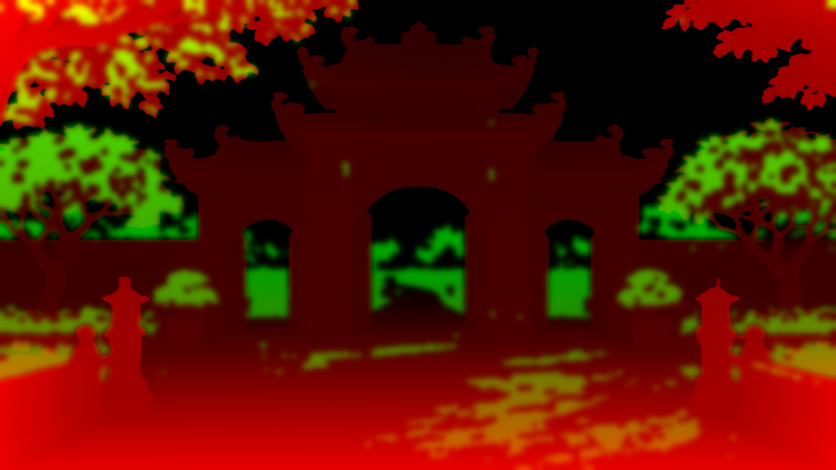
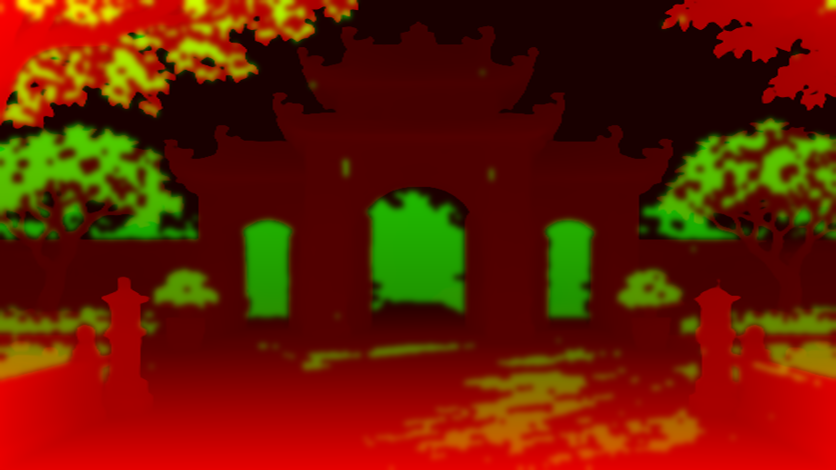
Sửa 10 yêu cầu: lư hương vẽ, khói động, lùm tre sau cổng, cổng giữa, người xa to hơn, trò chuyện, nạp xu (#9)
- Dùng lại ảnh tham chiếu gốc; lư hương vẽ tách lớp để che người đi sau, bỏ lư/chuông/trống 3D
- Xoá khói vẽ tĩnh, khói hương động bay theo gió từ đầu nén hương
- Sau cổng tam quan là lùm tre (thay đồng lúa); cổng nằm giữa, thẳng hướng điện (cửa điện và chánh điện)
- Làm sạch viền sprite Phật tử; ngoài sân người ở xa không còn bé quá
- Khung trò chuyện theo phòng bên phải; nạp xu theo 4 gói; điểm nhìn Mặt trước chùa

Claude-Session: https://claude.ai/code/session_0165dYwuGLCeQUJKj4YibH94

diff --git a/chua.js b/chua.js
@@ -35,31 +35,32 @@
       block: [[180, 730, 290, 812]],                                         // chỗ thầy ngồi
       exits: [[[790, 540, 900, 563], 'cua', [836, 900], 'up'], [[0, 690, 14, 900], 'cua-hong', [836, 900], 'up'], [[1658, 690, 1672, 900], 'lau-trong', [836, 900], 'up']],
       urn: { stand: [845, 806], face: 'down', plant: [843, 800], len: 58 } },
-    'cua': { urn3d: { bb: [755, 423, 917, 606], elev: 12 }, name: 'Cửa Chánh điện', img: 'assets/ngoai/cua.jpg', hz: 470, k: .6,
+    'cua': { lu: { src: 'assets/ngoai/lu-cua.png', at: [755, 423, 164, 184] }, name: 'Cửa Chánh điện', img: 'assets/ngoai/cua.jpg', hz: 470, k: .6,
       floor: [[222, 941], [1450, 941], [1450, 742], [1085, 522], [600, 522], [222, 742]],
       block: [[238, 560, 425, 835], [1245, 560, 1440, 835], [762, 566, 910, 616]],
       exits: [[[560, 500, 1110, 532], 'san', [836, 905], 'up'], [[222, 932, 1450, 941], 'hall', [845, 575], 'down']],
       urn: { stand: [836, 640], face: 'up', plant: [836, 462], len: 26 } },
-    'cua-hong': { urn3d: { bb: [754, 422, 918, 606], elev: 12 }, name: 'Thềm Chánh điện', img: 'assets/ngoai/cua-hong.jpg', hz: 470, k: .6,
+    'cua-hong': { lu: { src: 'assets/ngoai/lu-cua.png', at: [755, 423, 164, 184] }, name: 'Thềm Chánh điện', img: 'assets/ngoai/cua-hong.jpg', hz: 470, k: .6,
       floor: [[222, 941], [1450, 941], [1450, 742], [1085, 522], [600, 522], [222, 742]],
       block: [[238, 560, 425, 835], [1245, 560, 1440, 835], [762, 566, 910, 616]],
       exits: [[[560, 500, 1110, 532], 'san', [836, 905], 'up'], [[222, 932, 1450, 941], 'hall', [60, 790], 'right']],
       urn: { stand: [836, 640], face: 'up', plant: [836, 462], len: 26 } },
-    'san': { urn3d: { bb: [682, 511, 988, 847], elev: 8 }, name: 'Sân chùa', img: 'assets/ngoai/san.jpg', hz: 470, k: .6,
+    'san': { lu: { src: 'assets/ngoai/lu-san.png', at: [682, 512, 307, 337] }, name: 'Sân chùa', img: 'assets/ngoai/san.jpg', hz: 470, k: .6,
       floor: [[0, 941], [1672, 941], [1672, 822], [1112, 560], [1042, 500], [628, 500], [558, 560], [0, 822]],
       block: [[702, 782, 968, 852]],
       exits: [[[600, 490, 1070, 510], 'san-gan', [560, 905], 'up'], [[0, 924, 1672, 941], 'mat-tien', [836, 905], 'up'],
               [[0, 800, 12, 941], 'bo-de', [1590, 880], 'left'], [[1660, 800, 1672, 941], 'quan-am', [90, 880], 'right']],
       urn: { stand: [836, 905], face: 'up', plant: [836, 588], len: 50 } },
-    'san-gan': { urn3d: { bb: [677, 584, 1071, 940], elev: 6 }, name: 'Sân trước Tam Quan', img: 'assets/ngoai/san-gan.jpg', hz: 470, k: .6,
+    'san-gan': { lu: { src: 'assets/ngoai/lu-san-gan.png', at: [677, 584, 395, 357] }, name: 'Sân trước Tam Quan', img: 'assets/ngoai/san-gan.jpg', hz: 470, k: .6,
       floor: [[0, 941], [1672, 941], [1672, 782], [1122, 560], [1000, 528], [700, 528], [560, 560], [0, 782]],
       block: [[692, 862, 1058, 941]],
       exits: [[[680, 515, 1020, 538], 'tam-quan', [836, 905], 'up'], [[0, 930, 650, 941], 'mat-tien', [836, 905], 'up'], [[1090, 930, 1672, 941], 'mat-tien', [836, 905], 'up'],
-              [[0, 760, 12, 941], 'bo-de', [1590, 880], 'left'], [[1660, 760, 1672, 941], 'quan-am', [90, 880], 'right']] },
+              [[0, 760, 12, 941], 'bo-de', [1590, 880], 'left'], [[1660, 760, 1672, 941], 'quan-am', [90, 880], 'right']],
+      urn: { stand: [874, 905], face: 'up', plant: [874, 676], len: 62 } },
     'tam-quan': { name: 'Cổng Tam Quan', img: 'assets/ngoai/tam-quan.jpg', hz: 520, k: .62,
       floor: [[300, 941], [1380, 941], [1380, 702], [1230, 672], [440, 672], [300, 702]],
       exits: [[[300, 930, 1380, 941], 'mat-tien', [836, 905], 'up'], [[720, 660, 960, 680], 'soon:Đường làng', null]] },
-    'mat-tien': { urn3d: { bb: [699, 518, 970, 829], elev: 8 }, name: 'Mặt tiền Chánh điện', img: 'assets/ngoai/mat-tien.jpg', hz: 480, k: .6,
+    'mat-tien': { lu: { src: 'assets/ngoai/lu-mat-tien.png', at: [699, 529, 272, 301] }, name: 'Mặt tiền Chánh điện', img: 'assets/ngoai/mat-tien.jpg', hz: 480, k: .6,
       floor: [[332, 941], [1338, 941], [1338, 642], [1098, 626], [1090, 522], [580, 522], [572, 626], [332, 642]],
       block: [[716, 766, 954, 836]],
       exits: [[[640, 505, 1030, 530], 'hall', [845, 575], 'down'], [[332, 930, 1338, 941], 'san', [836, 905], 'up'],
@@ -72,11 +73,11 @@
       floor: [[0, 941], [1672, 941], [1672, 746], [1012, 746], [982, 602], [748, 602], [720, 746], [0, 746]],
       exits: [[[748, 596, 982, 612], 'lau-trong', [836, 905], 'up'], [[0, 930, 1672, 941], 'san', [836, 905], 'up'], [[0, 746, 12, 941], 'san', [1590, 880], 'left']],
       act: [[750, 600, 990, 640], 'quanam'] },
-    'lau-chuong': { urn3d: { kind: 'bell', bb: [737, 415, 927, 679], elev: -4 }, name: 'Lầu Chuông', img: 'assets/ngoai/lau-chuong.jpg', hz: 560, k: .66,
+    'lau-chuong': { tap: [[737, 415, 927, 679], 'chuong'], name: 'Lầu Chuông', img: 'assets/ngoai/lau-chuong.jpg', hz: 560, k: .66,
       floor: [[0, 941], [1672, 941], [1672, 802], [1052, 802], [1042, 722], [648, 722], [640, 802], [0, 802]],
       exits: [[[0, 802, 12, 941], 'bo-de', [1590, 880], 'left'], [[1660, 802, 1672, 941], 'hanh-lang', [500, 905], 'up'], [[0, 930, 1672, 941], 'mat-tien', [836, 905], 'up']],
       act: [[648, 718, 1042, 740], 'chuong'] },
-    'lau-trong': { urn3d: { kind: 'drum', bb: [760, 361, 935, 519], elev: 3 }, name: 'Lầu Trống', img: 'assets/ngoai/lau-trong.jpg', hz: 480, k: .6,
+    'lau-trong': { tap: [[760, 361, 935, 519], 'trong'], name: 'Lầu Trống', img: 'assets/ngoai/lau-trong.jpg', hz: 480, k: .6,
       floor: [[222, 941], [1450, 941], [1450, 846], [1322, 752], [1322, 652], [362, 652], [362, 752], [222, 846]],
       exits: [[[222, 930, 1450, 941], 'hall', [1610, 790], 'left']],
       act: [[700, 648, 990, 670], 'trong'] },
@@ -150,7 +151,7 @@
     load('assets/song/nu.png').then(i => SHEETS.nu.img = i), load('assets/song/nam.png').then(i => SHEETS.nam.img = i),
     load('assets/song/monk.png').then(i => monk = i), load(ROOMS.hall.img).then(i => imgs.hall = i), load(ROOMS.hall.fg).then(i => imgs.hallFg = i)
   ]).then(() => { ready = true; document.documentElement.classList.add('song-ready'); syncVirtual();
-    Object.keys(ROOMS).forEach(k => k !== 'hall' && load(ROOMS[k].img).then(i => imgs[k] = i)); });
+    Object.keys(ROOMS).forEach(k => { if (k !== 'hall') load(ROOMS[k].img).then(i => imgs[k] = i); if (ROOMS[k].lu) load(ROOMS[k].lu.src).then(i => imgs['lu-' + k] = i); }); });
   Object.keys(ROOMS).forEach(loadDepth);
 
   /* ---------- Vẽ ---------- */
@@ -205,7 +206,12 @@
 
   let room = 'hall';
   const R = () => ROOMS[room];
-  const hAt = (y, rm = R()) => Math.max(26, rm.k * (y - rm.hz));
+  // Ngoài sân: giảm bớt độ thu nhỏ theo xa gần để người ở xa không bé quá (gần như cũ ở sát màn hình)
+  const hWalk = (y, rm = R()) => Math.max(26, rm.k * (y - rm.hz));          // tốc độ đi theo phối cảnh thật
+  const hAt = (y, rm = R()) => {
+    const d = Math.max(4, y - rm.hz); if (rm === ROOMS.hall) return Math.max(26, rm.k * d);
+    const d0 = 900 - rm.hz; return Math.max(40, rm.k * d0 * Math.pow(d / d0, .55));
+  };
   function drawCushion(x, y, h) {
     const rx = .36 * h, ry = .095 * h;
     ctx.save(); ctx.translate(x, y - ry * .55);
@@ -233,22 +239,52 @@
   }
   // Gió: mạnh yếu từng đợt (dùng chung cho lá cây trong nền và khói hương)
   window.GIO = t => .65 + .35 * Math.sin(t * .37) + .15 * Math.sin(t * 1.13);
+  /* Khói hương động: bốc lên từ đầu các nén hương đang cháy trong lư, gió thổi nghiêng (thay khói vẽ tĩnh) */
+  const puffs = [];
+  let puffRoom = null;
+  function smoke(rm, t, dt) {
+    if (puffRoom !== rm) { puffs.length = 0; puffRoom = rm; }
+    const R0 = ROOMS[rm], src = [];
+    if (R0.lu) { const [x, y, w, h] = R0.lu.at; src.push([x + w / 2, y + h * .05, w * .13, h / 300]); }
+    sticks.forEach(s => { if (s.room === rm) src.push([s.x, s.y - s.len, 3, s.len / 60]); });
+    if (!src.length) return;
+    const rate = 14 + Math.min(20, src.length);
+    for (let n = Math.random() < (rate * dt) % 1 ? 1 : 0, k = Math.floor(rate * dt) + n; k > 0; k--) {
+      const s = src[Math.random() * src.length | 0];
+      puffs.push({ x: s[0] + (Math.random() - .5) * 2 * s[2], y: s[1], sc: s[3], t0: t, ph: Math.random() * 6, life: 4 + Math.random() * 2.5 });
+    }
+    const wind = rm === 'hall' ? 0 : GIO(t);
+    ctx.save(); ctx.globalCompositeOperation = 'screen';
+    for (let i = puffs.length - 1; i >= 0; i--) {
+      const f = puffs[i], age = t - f.t0; if (age > f.life) { puffs.splice(i, 1); continue; }
+      const k = age / f.life, sc = f.sc;
+      const x = f.x + Math.sin(age * 1.4 + f.ph) * 6 * sc * k + wind * 34 * sc * age * age * .5,
+            y = f.y - (26 + age * 6) * sc * age,
+            r = (6 + age * 11) * sc,
+            a = Math.min(1, age * 2.5) * (1 - k) * .55;
+      const [dx, dy] = shiftAt(f.x, f.y + 60);
+      const g = ctx.createRadialGradient(x + dx, y + dy, 0, x + dx, y + dy, r);
+      g.addColorStop(0, `rgba(235,232,228,${a})`); g.addColorStop(1, 'rgba(235,232,228,0)');
+      ctx.fillStyle = g; ctx.beginPath(); ctx.arc(x + dx, y + dy, r, 0, 7); ctx.fill();
+    }
+    ctx.restore();
+  }
   // Hương: que đỏ, đầu đỏ lửa, khói mỏng
   const sticks = [], flying = [];
-  function stick(x, y, len, t, a = 1) {
+  function stick(x, y, len, t, a = 1, puff = false) {
     ctx.strokeStyle = `rgba(178,34,40,${a})`; ctx.lineWidth = Math.max(1.4, len * .045); ctx.lineCap = 'round';
     ctx.beginPath(); ctx.moveTo(x, y); ctx.lineTo(x, y - len); ctx.stroke();
     const r = Math.max(2, len * .07), g = ctx.createRadialGradient(x, y - len, 0, x, y - len, r * 2.6);
     g.addColorStop(0, `rgba(255,236,170,${a})`); g.addColorStop(.35, `rgba(255,120,40,${.9 * a})`); g.addColorStop(1, 'rgba(255,90,30,0)');
     ctx.fillStyle = g; ctx.beginPath(); ctx.arc(x, y - len, r * 2.6, 0, 7); ctx.fill();
-    for (let i = 0; i < 4; i++) {                                           // khói
+    if (puff) for (let i = 0; i < 4; i++) {                                 // khói (hương cầm tay)
       const k = ((t * .35 + i * .25) % 1), sy = y - len - k * len * 1.6, sx = x + Math.sin(t * 1.3 + i * 2 + x) * len * .12 * k + (room === 'hall' ? 0 : GIO(t) * k * k * len * .9);
       ctx.fillStyle = `rgba(235,235,235,${.16 * (1 - k) * a})`; ctx.beginPath(); ctx.arc(sx, sy, len * (.05 + k * .12), 0, 7); ctx.fill();
     }
   }
   function drawHeldSticks(p, h) {
     const t = performance.now() / 1000, len = h * .2, hy = p.fy - h * (p.dir === 'up' && p.frame < 16 ? .56 : .5);
-    for (const dx of [-.025, 0, .025]) stick(p.fx + dx * h, hy, len, t);
+    for (const dx of [-.025, 0, .025]) stick(p.fx + dx * h, hy, len, t, 1, true);
   }
 
   /* ---------- Chuyển động ---------- */
@@ -263,7 +299,7 @@
   function stepWalker(p, dt) {
     if (p.mode !== 'walk' || !p.target) return;
     const [tx, ty] = p.target, dx = tx - p.fx, dy = ty - p.fy, d = Math.hypot(dx, dy);
-    const v = .78 * hAt(p.fy, ROOMS[p.room]) * dt;
+    const v = .78 * hWalk(p.fy, ROOMS[p.room]) * dt;
     p.dir = dirOf(dx, dy); p.walkT += dt;
     if (d <= v) { p.fx = tx; p.fy = ty; p.target = null; p.mode = 'pose'; p.frame = F.stand; const a = p.arrive; p.arrive = null; a && a(); }
     else { p.fx += dx / d * v; p.fy += dy / d * v; }
@@ -308,8 +344,7 @@
     flying.push({ room: p.room, from, to, len: u.len, t0: performance.now() });
     if (u.face !== 'up') p.frame = F.standBow;
     await sleep(650); p.frame = u.face === 'up' ? F.up : F.stand;
-    if (ROOMS[p.room].urn3d && window.Urn3D && Urn3D.ok()) Urn3D.plant(3);
-    else for (const dx of [-.12, 0, .12]) sticks.push({ room: p.room, x: to[0] + dx * u.len, y: to[1] + Math.abs(dx) * 4, len: u.len * rnd(.9, 1.05), t0: performance.now() });
+    for (const dx of [-.12, 0, .12]) sticks.push({ room: p.room, x: to[0] + dx * u.len, y: to[1] + Math.abs(dx) * 4, len: u.len * rnd(.9, 1.05), t0: performance.now() });
     while (sticks.length > 60) sticks.shift();
     dispatchEvent(new CustomEvent('chua-huong', { detail: { me: !!p.me } }));
     await sleep(500);
@@ -367,7 +402,7 @@
       if (me.mode === 'seat') { meBusy = true; if (me.seat) { me.seat.owner = null; } await standUp(me); me.mode = 'pose'; meBusy = false; return; }
       if (me.target) return;
       me.mode = 'walk';
-      const h = hAt(me.fy), v = .9 * h * Math.min(1, mag) * dt;
+      const h = hWalk(me.fy), v = .9 * h * Math.min(1, mag) * dt;
       const nx = me.fx + input.x / mag * v, ny = me.fy + input.y / mag * v * .8;
       // ra khỏi cảnh?
       for (const [r, to, at, face] of R().exits) {
@@ -459,9 +494,10 @@
         SEATS.forEach(s => items.push({ y: s.y - .5, draw: at(s.x, s.y, () => drawCushion(s.x, s.y, hallH(s.y))) }));
         if (monk) items.push({ y: 802, draw: at(235, 802, () => { const b = 1 + Math.sin(t * 1.2) * .006; ctx.drawImage(monk, 198, 693 + 106 * (1 - b), 75, 106 * b); }) });
       }
-      const u3 = R().urn3d;
-      if (u3 && window.Urn3D && Urn3D.ok()) items.push({ y: u3.bb[3], draw: at((u3.bb[0] + u3.bb[2]) / 2, u3.bb[3] - 4, () => Urn3D.draw(ctx, u3, t)) });
+      const lu = R().lu;                                                  // lư hương vẽ: tách lớp để người đi sau lư bị lư che
+      if (lu && imgs['lu-' + room]) { const [x, y, w, h] = lu.at; items.push({ y: y + h - 6, draw: at(x + w / 2, y + h - 6, () => ctx.drawImage(imgs['lu-' + room], x, y, w, h)) }); }
       items.sort((a, b) => a.y - b.y).forEach(i => i.draw());
+      smoke(room, t, dt);
       if (room === 'hall' && imgs.hallFg) { const [dx, dy] = shiftAt(843, 870); ctx.drawImage(imgs.hallFg, dx, ROOMS.hall.fgY + dy); }
       sticks.forEach(s => { if (s.room !== room) return; const age = (now - s.t0) / 1000, a = age > 80 ? Math.max(0, 1 - (age - 80) / 10) : 1; if (a > 0) { const [dx, dy] = shiftAt(s.x, s.y + 40); stick(s.x + dx, s.y + dy, s.len * (1 - Math.min(.5, age / 200)), t, a); } });
       for (let i = flying.length - 1; i >= 0; i--) {
@@ -478,19 +514,12 @@
   }
   requestAnimationFrame(frame);
 
+  const toStage = e => { const r = cv.getBoundingClientRect(); return [(e.clientX - r.left) * W / r.width, (e.clientY - r.top) * H / r.height]; };
   cv.addEventListener('click', e => {
-    const u3 = R().urn3d; if (!u3 || !window.Urn3D) return;
-    const r = cv.getBoundingClientRect(), x = (e.clientX - r.left) * W / r.width, y = (e.clientY - r.top) * H / r.height;
-    if (!inRect(x, y, u3.bb)) return;
-    if (u3.kind === 'bell') dispatchEvent(new CustomEvent('chua-act', { detail: 'chuong' }));
-    else if (u3.kind === 'drum') dispatchEvent(new CustomEvent('chua-act', { detail: 'trong' }));
-    else Urn3D.open();
+    const tp = R().tap; if (!tp) return;
+    const [x, y] = toStage(e); if (inRect(x, y, tp[0])) dispatchEvent(new CustomEvent('chua-act', { detail: tp[1] }));
   });
-  cv.addEventListener('mousemove', e => {
-    const u3 = R().urn3d; if (!u3) { cv.style.cursor = ''; return; }
-    const r = cv.getBoundingClientRect(), x = (e.clientX - r.left) * W / r.width, y = (e.clientY - r.top) * H / r.height;
-    cv.style.cursor = inRect(x, y, u3.bb) ? 'pointer' : '';
-  });
+  cv.addEventListener('mousemove', e => { const tp = R().tap; if (!tp) { cv.style.cursor = ''; return; } const [x, y] = toStage(e); cv.style.cursor = inRect(x, y, tp[0]) ? 'pointer' : ''; });
 
   /* ---------- Giao tiếp với app.js ---------- */
   const hallNpcs = () => people.filter(p => !p.me && p.room === 'hall');

diff --git a/app.js b/app.js
@@ -11,7 +11,7 @@
     set(k, v) { try { localStorage.setItem('lhtv:' + k, JSON.stringify(v)); } catch {} }
   };
   const state = {
-    wallet: store.get('wallet', 1250000),
+    xu: store.get('xu', 0),
     merit: store.get('merit', 0),
     beads: store.get('beads', 0),
     hall: store.get('hall', 1),
@@ -21,7 +21,7 @@
     log: store.get('log', []),
     outside: false
   };
-  const save = () => ['wallet', 'merit', 'beads', 'hall', 'volume', 'muted', 'ambient', 'log'].forEach(k => store.set(k, state[k]));
+  const save = () => ['xu', 'merit', 'beads', 'hall', 'volume', 'muted', 'ambient', 'log'].forEach(k => store.set(k, state[k]));
   const fmt = n => n.toLocaleString('vi-VN');
 
   /* ---------- Co giãn sân khấu ---------- */
@@ -53,10 +53,51 @@
     $$('#views [data-view]').forEach(b => b.classList.toggle('on', b.dataset.view === name));
   }
   $$('#views [data-view]').forEach(b => b.addEventListener('click', () => {
+    if (b.dataset.view === 'mattien') {                 // toàn cảnh mặt trước chánh điện
+      window.Nguoi && Nguoi.go('mat-tien', [836, 905], 'up'); chime(660, .15);
+      $$('#views [data-view]').forEach(x => x.classList.toggle('on', x === b)); return;
+    }
     if (state.outside) goInside();
     setView(b.dataset.view); chime(660, .15);
   }));
   $('#views-toggle').addEventListener('click', () => $('#views').classList.toggle('closed'));
+
+  /* ---------- Trò chuyện trong cùng phòng ----------
+     Tin nhắn theo phòng (chánh điện số mấy + đang đứng ở cảnh nào). Hiện chưa có máy chủ:
+     tin được lưu trên máy và chuyển giữa các tab cùng trình duyệt; đạo hữu ảo thỉnh thoảng chào hỏi. */
+  const chat = { room: 'hall', bc: null, timer: 0 };
+  try { chat.bc = new BroadcastChannel('lhtv-chat'); } catch {}
+  const chatKey = () => `chat:${state.hall}:${chat.room}`;
+  const esc = t => String(t).replace(/[&<>"']/g, c => ({ '&': '&amp;', '<': '&lt;', '>': '&gt;', '"': '&quot;', "'": '&#39;' }[c]));
+  function chatPaint() {
+    const list = store.get(chatKey(), []), log = $('#chat-log');
+    log.innerHTML = list.length ? list.map(m => `<div class="m ${m.me ? 'me' : ''} ${m.sys ? 'sys' : ''}">${m.sys ? '' : `<b>${esc(m.who)}</b>`}${esc(m.text)}</div>`).join('')
+      : '<div class="m sys">Chưa có tin nhắn. Hãy chào đại chúng 🙏</div>';
+    log.scrollTop = log.scrollHeight;
+  }
+  function chatAdd(m, broadcast = true) {
+    const k = m.key || chatKey(); const list = store.get(k, []); list.push({ who: m.who, text: m.text, me: m.me, sys: m.sys, t: Date.now() });
+    store.set(k, list.slice(-60)); if (k === chatKey()) chatPaint();
+    if (broadcast && chat.bc) chat.bc.postMessage({ key: k, who: m.who, text: m.text });
+  }
+  if (chat.bc) chat.bc.onmessage = e => chatAdd({ ...e.data, me: false }, false);
+  const BOT = ['Minh Tâm', 'Quang Huy', 'Liên Hoa', 'An Nhiên', 'Từ Hạnh', 'Nhật Minh', 'Diệu Âm', 'Thiện Tâm'];
+  const BOT_SAY = ['A Di Đà Phật 🙏', 'Chúc đạo hữu một ngày an lạc', 'Hôm nay chùa thanh tịnh quá', 'Nam Mô Bổn Sư Thích Ca Mâu Ni Phật',
+    'Mọi người cùng niệm Phật nhé', 'Hương trầm thơm quá', 'Tùy hỷ công đức đạo hữu 🙏', 'Nguyện cho tất cả chúng sinh được bình an'];
+  const pick = a => a[Math.random() * a.length | 0];
+  function botTalk(reply) {
+    if (!window.Nguoi || Nguoi.count() < 2) return;
+    chatAdd({ who: pick(BOT), text: reply ? pick(['A Di Đà Phật 🙏', 'Chào đạo hữu 🙏', 'Tùy hỷ, tùy hỷ', 'Cảm ơn đạo hữu, chúc an lạc']) : pick(BOT_SAY), me: false }, false);
+  }
+  (function ambient() { chat.timer = setTimeout(() => { if (Math.random() < .6) botTalk(false); ambient(); }, 35000 + Math.random() * 50000); })();
+  $('#chat-form').addEventListener('submit', e => {
+    e.preventDefault(); const inp = $('#chat-in'), text = inp.value.trim(); if (!text) return;
+    chatAdd({ who: 'Bạn', text, me: true }); inp.value = ''; inp.blur();
+    if (Math.random() < .7) setTimeout(() => botTalk(true), 2500 + Math.random() * 4000);
+  });
+  $('#chat-toggle').addEventListener('click', () => $('#chat').classList.toggle('closed'));
+  function chatRoom(room, name) { chat.room = room; $('#chat-room').textContent = name; chatPaint(); }
+  chatRoom('hall', 'Chánh điện ' + state.hall);
 
   /* ---------- Joystick + bàn phím ---------- */
   const joy = $('#joy'), knob = $('#knob');
@@ -198,7 +239,7 @@
   function logIt(text, merit = 0) {
     state.log.unshift({ t: Date.now(), text, merit }); state.log = state.log.slice(0, 60); save();
   }
-  const paintWallet = () => { $('#wallet').textContent = fmt(state.wallet); };
+  const paintWallet = () => { $('#wallet').textContent = fmt(state.xu); };
   paintWallet();
 
   /* ---------- Hành động ---------- */
@@ -268,6 +309,7 @@
     if (state.outside) { Object.assign(cam, VIEWS.all); applyCam(); $$('#views [data-view]').forEach(b => b.classList.remove('on')); }
     else setView('all');
     toast(name); logIt('Đến ' + name); chime(660, .3, .15);
+    chatRoom(room, room === 'hall' ? 'Chánh điện ' + state.hall : name);
   });
   addEventListener('chua-soon', e => toast(`${e.detail} đang được xây, sắp mở 🙏`));
   addEventListener('chua-huong', e => { if (e.detail.me) { addMerit(2, 'Thắp hương'); floatText('Nguyện hương thơm lan khắp mười phương', 843, 560, true); chime(1040, 2.5, .2); } else incenseBoost = 6; });
@@ -304,7 +346,7 @@
   });
   function joinHall(id) {
     state.hall = id; save(); paintHall(); setView('all'); chime(523, 2.5, .3);
-    toast(`Đã vào Chánh điện ${id}`);
+    toast(`Đã vào Chánh điện ${id}`); chatRoom(chat.room, chat.room === 'hall' ? 'Chánh điện ' + id : $('#chat-room').textContent);
   }
   const notes = [
     ['Lễ cầu an tối nay lúc 19:30', 'Chánh điện 1'],
@@ -338,20 +380,24 @@
     },
     hall() { closeModal(); setView('all'); if (state.outside) goInside(); },
     wallet() {
-      openModal('Ví công đức', `<p>Số dư</p><p class="big">${fmt(state.wallet)} đ</p>
-        <p>Nạp thêm (mô phỏng):</p>
-        <div class="grid">${[50000, 100000, 200000, 500000].map(v => `<button data-v="${v}">+${fmt(v)}</button>`).join('')}</div>`,
-        body => body.addEventListener('click', e => { const b = e.target.closest('[data-v]'); if (!b) return;
-          state.wallet += +b.dataset.v; save(); paintWallet(); chime(988, 1.5, .25); $('.big', body).textContent = fmt(state.wallet) + ' đ'; }));
+      // Nạp xu: giá tiền (đồng) → số xu nhận được
+      const PACKS = [[18990, 1680], [48990, 5099], [99000, 10900], [199000, 21900]];
+      openModal('Nạp xu', `<p>Số dư</p><p class="big">${fmt(state.xu)} xu</p>
+        <p>Chọn gói nạp:</p>
+        <div class="grid">${PACKS.map(([d, x]) => `<button data-x="${x}" data-d="${d}"><b>${fmt(x)} xu</b><small>${fmt(d)} đ</small></button>`).join('')}</div>
+        <p class="note">Bản thử nghiệm: bấm gói là cộng xu ngay, chưa kết nối cổng thanh toán.</p>`,
+        body => body.addEventListener('click', e => { const b = e.target.closest('[data-x]'); if (!b) return;
+          state.xu += +b.dataset.x; save(); paintWallet(); chime(988, 1.5, .25); logIt(`Nạp ${fmt(+b.dataset.x)} xu (${fmt(+b.dataset.d)} đ)`);
+          $('.big', body).textContent = fmt(state.xu) + ' xu'; toast(`Đã nạp ${fmt(+b.dataset.x)} xu`); }));
     },
     merit() {
-      const opts = [[20000, 'Cúng hoa sen'], [50000, 'Cúng đèn'], [100000, 'Cúng dường Tam Bảo'], [200000, 'Ấn tống kinh']];
+      const opts = [[200, 'Cúng hoa sen'], [500, 'Cúng đèn'], [1000, 'Cúng dường Tam Bảo'], [2000, 'Ấn tống kinh']];
       openModal('Công đức', `<p>Công đức tích lũy</p><p class="big" id="m-pt">${fmt(state.merit)}</p>
-        <p>Cúng dường từ ví (${fmt(state.wallet)} đ):</p>
-        <div class="grid">${opts.map(([v, t]) => `<button data-v="${v}" data-t="${t}">${t}<small>${fmt(v)} đ</small></button>`).join('')}</div>`,
+        <p>Cúng dường bằng xu (đang có ${fmt(state.xu)} xu):</p>
+        <div class="grid">${opts.map(([v, t]) => `<button data-v="${v}" data-t="${t}">${t}<small>${fmt(v)} xu</small></button>`).join('')}</div>`,
         body => body.addEventListener('click', e => { const b = e.target.closest('[data-v]'); if (!b) return;
-          const v = +b.dataset.v; if (state.wallet < v) { toast('Ví không đủ, hãy nạp thêm'); return; }
-          state.wallet -= v; paintWallet(); addMerit(Math.round(v / 10000), b.dataset.t); bell(); petals(20);
+          const v = +b.dataset.v; if (state.xu < v) { toast('Không đủ xu, hãy nạp thêm'); PANELS.wallet(); return; }
+          state.xu -= v; save(); paintWallet(); addMerit(Math.round(v / 100), b.dataset.t); bell(); petals(20);
           $('#m-pt', body).textContent = fmt(state.merit); closeModal(); toast(`Tùy hỷ công đức: ${b.dataset.t} 🙏`); }));
     },
     book() {

diff --git a/index.html b/index.html
@@ -54,7 +54,7 @@
       </div>
       <div class="pill" style="left:1082px;width:280px">
         <svg class="ic wallet"><use href="#i-wallet"/></svg>
-        <span>Ví: <b id="wallet">1.250.000</b> đ</span>
+        <span>Xu: <b id="wallet">0</b></span>
         <button class="plus" id="topup" aria-label="Nạp tiền"><svg><use href="#i-plus"/></svg></button>
       </div>
       <button class="pill" id="merit-btn" style="left:1384px;width:196px">
@@ -82,11 +82,22 @@
       <button class="head" id="views-toggle"><svg class="ic"><use href="#i-camera"/></svg><span>Điểm nhìn nhanh</span><svg class="ic caret"><use href="#i-caret"/></svg></button>
       <div class="list">
         <button data-view="all" class="on"><svg class="ic"><use href="#i-image"/></svg>Toàn cảnh</button>
+        <button data-view="mattien"><svg class="ic"><use href="#i-temple"/></svg>Mặt trước chùa</button>
         <button data-view="buddha"><svg class="ic"><use href="#i-buddha"/></svg>Góc Phật</button>
         <button data-view="left"><svg class="ic"><use href="#i-left"/></svg>Tường trái</button>
         <button data-view="right"><svg class="ic"><use href="#i-right"/></svg>Tường phải</button>
         <button data-view="door"><svg class="ic"><use href="#i-gate"/></svg>Cửa chính</button>
       </div>
+    </aside>
+
+    <!-- ===== TRÒ CHUYỆN ===== -->
+    <aside id="chat" class="panel">
+      <button class="head" id="chat-toggle"><svg class="ic"><use href="#i-users"/></svg><span>Trò chuyện · <b id="chat-room">Chánh điện</b></span><svg class="ic caret"><use href="#i-caret"/></svg></button>
+      <div id="chat-log" aria-live="polite"></div>
+      <form id="chat-form" autocomplete="off">
+        <input id="chat-in" maxlength="200" placeholder="Nhắn với đạo hữu cùng phòng…" aria-label="Tin nhắn">
+        <button type="submit" aria-label="Gửi">Gửi</button>
+      </form>
     </aside>
 
     <!-- ===== JOYSTICK ===== -->
@@ -187,7 +198,6 @@
 
 <script type="importmap">{ "imports": { "three": "./vendor/three.module.min.js" } }</script>
 <script src="chua.js"></script>
-<script type="module" src="urn3d.js"></script>
 <script src="app.js"></script>
 </body>
 </html>

diff --git a/style.css b/style.css
@@ -209,3 +209,21 @@ button.pill:hover{border-color:var(--gold-hi);filter:brightness(1.12)}
 #urn-view canvas{display:block;width:1040px;height:666px;cursor:grab;touch-action:none}
 #urn-view .uv-x{background:none;border:0;color:#ffe2a3;font-size:28px;cursor:pointer}
 #urn-view .uv-huong{padding:8px 20px;border-radius:20px;border:1.5px solid #f0c46e;background:linear-gradient(#c8462c,#8e2414);color:#fff3d6;font:600 19px var(--sans);cursor:pointer}
+
+/* trò chuyện bên phải */
+#chat{left:1463px;top:384px;width:203px;height:440px;display:flex;flex-direction:column;overflow:hidden;transition:height .3s}
+#chat.closed{height:44px}
+#chat .head{display:flex;align-items:center;gap:8px;width:100%;padding:10px 10px 9px 12px;font:700 16px var(--sans);white-space:nowrap;border-bottom:1px solid rgba(232,181,74,.25)}
+#chat .head span{overflow:hidden;text-overflow:ellipsis}
+#chat .head .ic{width:22px;height:22px;flex:none}
+#chat .head .caret{width:14px;height:14px;margin-left:auto;transition:transform .3s}
+#chat.closed .caret{transform:rotate(180deg)}
+#chat-log{flex:1;overflow-y:auto;padding:6px 8px;display:flex;flex-direction:column;gap:5px;scrollbar-width:thin}
+#chat-log .m{font:400 14px/1.3 var(--sans);color:var(--cream);word-wrap:break-word}
+#chat-log .m b{color:#ffd77a;font-weight:700;margin-right:4px}
+#chat-log .m.me b{color:#9fe3b0}
+#chat-log .m.sys{color:rgba(255,236,200,.6);font-style:italic;font-size:13px}
+#chat-form{display:flex;gap:4px;padding:6px;border-top:1px solid rgba(232,181,74,.25)}
+#chat-in{flex:1;min-width:0;padding:6px 8px;border-radius:7px;border:1px solid rgba(232,181,74,.4);background:rgba(0,0,0,.35);color:#fff;font:400 14px var(--sans)}
+#chat-form button{padding:0 9px;border-radius:7px;background:linear-gradient(#e8b54a,#a86d1c);color:#3a1800;font:700 14px var(--sans)}
+.sheet .note{opacity:.7;font-size:15px;margin-top:10px}
